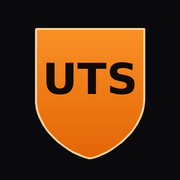
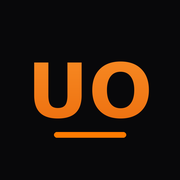
Novo ícone UO e zoom por pinça sem piscar
- Ícone agora é o monograma UO (Unique Organization) em laranja
  gradiente sobre fundo preto, com risco laranja embaixo
- Zoom por pinça sem piscar: a página é renderizada num canvas de
  rascunho e trocada num único quadro; a imagem ampliada pelo gesto
  permanece na tela até a versão nítida ficar pronta
- Trava pós-zoom: depois de aplicar a pinça, nenhum novo zoom engata
  até todos os dedos soltarem (evita o zoom duplo acidental)
- Atualiza cache do service worker para v19

Claude-Session: https://claude.ai/code/session_01X9HM3aJKraKHVKv14SLXV7

Changed region(s): [[0.1667, 0.1389, 0.8333, 0.8889]]

diff --git a/organizador-tarefas/editor.js b/organizador-tarefas/editor.js
@@ -98,7 +98,8 @@
   }
 
   // ---- Exibição da página ----
-  async function mostrarPagina(n) {
+  // aoAplicar: executado no mesmo instante da troca do desenho (sem quadro em branco)
+  async function mostrarPagina(n, aoAplicar) {
     if (!pdf) return;
     paginaAtual = n;
     const pagina = await pdf.getPage(n);
@@ -115,20 +116,28 @@
     }
     const vp = pagina.getViewport({ scale: escalaCss * nitidez, rotation: rotacao });
 
-    canvasPdf.width = Math.floor(vp.width);
-    canvasPdf.height = Math.floor(vp.height);
-    canvasDesenho.width = canvasPdf.width;
-    canvasDesenho.height = canvasPdf.height;
-    const cssL = `${Math.floor(vp.width / nitidez)}px`;
-    const cssA = `${Math.floor(vp.height / nitidez)}px`;
+    // Renderiza primeiro num canvas de rascunho: a tela só muda quando estiver pronto
+    const rascunho = document.createElement('canvas');
+    rascunho.width = Math.floor(vp.width);
+    rascunho.height = Math.floor(vp.height);
+    await pagina.render({ canvasContext: rascunho.getContext('2d'), viewport: vp }).promise;
+
+    // Troca instantânea, tudo no mesmo quadro (sem piscar)
+    canvasPdf.width = rascunho.width;
+    canvasPdf.height = rascunho.height;
+    canvasPdf.getContext('2d').drawImage(rascunho, 0, 0);
+    canvasDesenho.width = rascunho.width;
+    canvasDesenho.height = rascunho.height;
+    const cssL = `${Math.floor(rascunho.width / nitidez)}px`;
+    const cssA = `${Math.floor(rascunho.height / nitidez)}px`;
     for (const c of [canvasPdf, canvasDesenho]) {
       c.style.width = cssL;
       c.style.height = cssA;
     }
     folha.style.width = cssL;
     folha.style.height = cssA;
+    if (aoAplicar) aoAplicar();
 
-    await pagina.render({ canvasContext: canvasPdf.getContext('2d'), viewport: vp }).promise;
     pagInfo.textContent = `${n} / ${pdf.numPages}`;
     $('ed-pag-ant').disabled = n <= 1;
     $('ed-pag-prox').disabled = n >= pdf.numPages;
@@ -308,6 +317,8 @@
   // ---- Gestos com os dedos: um dedo move, dois dedos dão zoom (pinça) ----
   const toques = new Map(); // pointerId -> {x, y}
   let gesto = null;
+  let travaPinca = false;   // após aplicar um zoom, espera soltar todos os dedos
+  let aplicandoZoom = false;
 
   function distancia() {
     const [a, b] = [...toques.values()];
@@ -326,8 +337,10 @@
     if (e.isPrimary) {
       toques.clear();
       gesto = null;
+      travaPinca = false;
     }
     toques.set(e.pointerId, { x: e.clientX, y: e.clientY });
+    if (travaPinca) return;
 
     const podeArrastar = soCaneta || ferramenta === 'mover';
     if (toques.size === 1 && podeArrastar) {
@@ -383,22 +396,31 @@
     if (e.pointerType !== 'touch') return;
     toques.delete(e.pointerId);
 
-    if (gesto && gesto.tipo === 'pinch' && toques.size < 2) {
+    if (gesto && gesto.tipo === 'pinch' && toques.size < 2 && !aplicandoZoom) {
       const antigo = gesto;
       gesto = null;
-      folha.style.transform = '';
-      folha.style.transformOrigin = '0 0';
+      travaPinca = true; // nada de nova pinça até soltar todos os dedos
       const novoZoom = Math.max(1, Math.min(4, antigo.zoom0 * antigo.fator));
       if (Math.abs(novoZoom - antigo.zoom0) > 0.01) {
+        aplicandoZoom = true;
         zoom = novoZoom;
-        await mostrarPagina(paginaAtual);
-        // Recoloca o ponto da página que estava entre os dedos na mesma posição da tela
-        area.scrollLeft = folha.offsetLeft + antigo.ponto.x * folha.offsetWidth - antigo.foco.x;
-        area.scrollTop = folha.offsetTop + antigo.ponto.y * folha.offsetHeight - antigo.foco.y;
+        // A imagem ampliada pelo gesto fica na tela até a nova renderização
+        // estar pronta; a troca acontece num único quadro (sem piscar)
+        await mostrarPagina(paginaAtual, () => {
+          folha.style.transform = '';
+          folha.style.transformOrigin = '0 0';
+          area.scrollLeft = folha.offsetLeft + antigo.ponto.x * folha.offsetWidth - antigo.foco.x;
+          area.scrollTop = folha.offsetTop + antigo.ponto.y * folha.offsetHeight - antigo.foco.y;
+        });
+        aplicandoZoom = false;
+      } else {
+        folha.style.transform = '';
+        folha.style.transformOrigin = '0 0';
       }
     } else if (gesto && gesto.tipo === 'pan' && toques.size === 0) {
       gesto = null;
     }
+    if (toques.size === 0) travaPinca = false;
   }
   area.addEventListener('pointerup', fimDeToque);
   area.addEventListener('pointercancel', fimDeToque);

diff --git a/organizador-tarefas/sw.js b/organizador-tarefas/sw.js
@@ -1,5 +1,5 @@
 /* Service worker: deixa o app funcionar offline depois da primeira visita. */
-const CACHE = 'organizador-tarefas-v18';
+const CACHE = 'organizador-tarefas-v19';
 const ARQUIVOS = [
   '.',
   'index.html',
